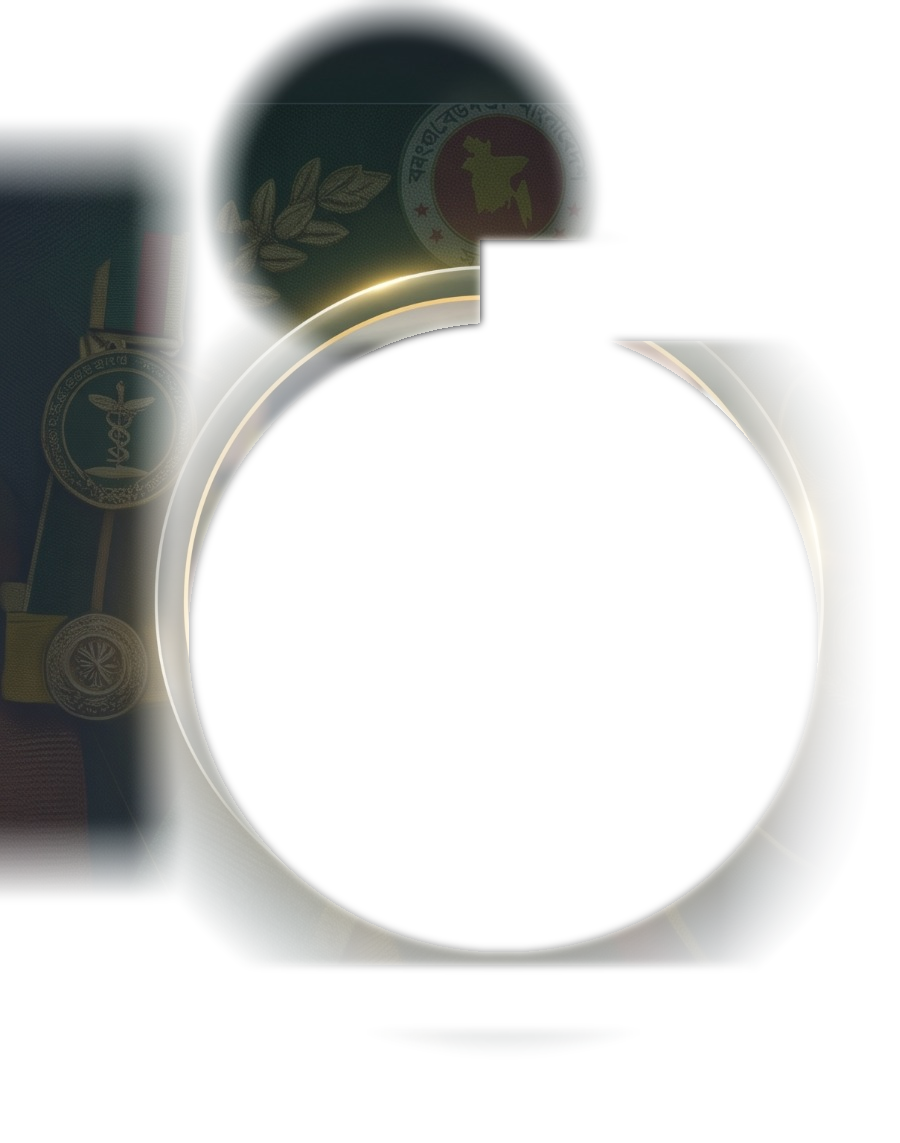
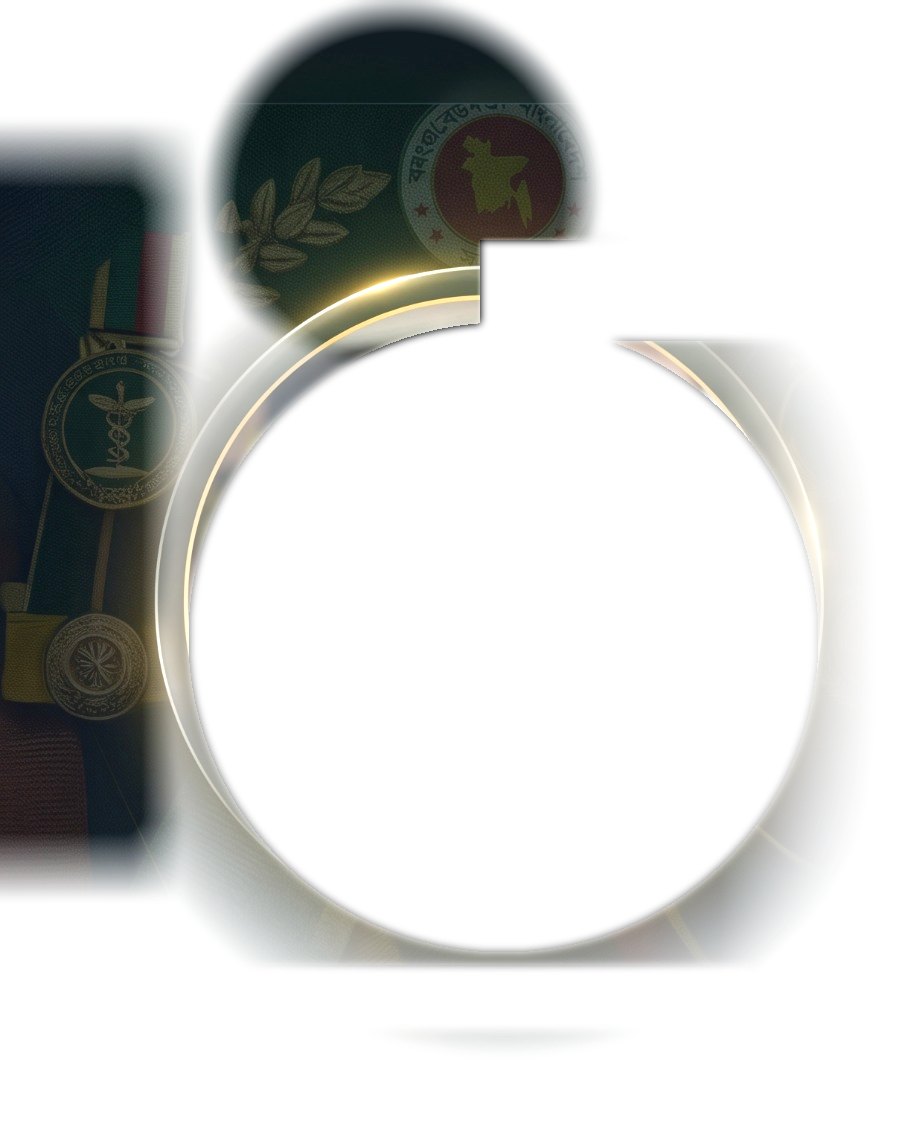
fix(hero): restore sovereign watermark and master glassmorphic leadership card with gold glow border

Changed region(s): [[0.2178, 0.0, 0.6533, 0.3675], [0.0, 0.1225, 0.2178, 0.7655], [0.2178, 0.3981, 0.2489, 0.4899]]

diff --git a/Brigadier-General-AKM-Nasir-Uddin/index.html b/Brigadier-General-AKM-Nasir-Uddin/index.html
@@ -185,115 +185,153 @@
 
   <main>
 
-    <!-- ==================== HERO SECTION (USER EXACT CODE) ==================== -->
-    <section class="hero-bg text-white min-w-full flex items-center justify-center px-6 md:px-16 py-12 relative overflow-hidden border-b border-emerald-900/40">
-        <div class="max-w-7xl w-full grid grid-cols-1 lg:grid-cols-12 gap-12 items-center">
-            
-            <!-- Left Column: Portrait & Badge -->
-            <div class="lg:col-span-5 flex flex-col items-center justify-center relative">
-                <!-- Ambient Glow behind portrait -->
-                <div class="absolute w-72 h-72 bg-[#d4af37]/10 rounded-full blur-3xl -z-10"></div>
-                
-                <!-- CEO Tag on Top of Image -->
-                <div class="mb-4 inline-flex items-center space-x-2 px-4 py-1.5 rounded-full bg-black/40 border border-[#d4af37]/40 text-xs text-emerald-100 shadow-lg">
-                    <span class="w-2 h-2 rounded-full bg-[#d4af37] animate-pulse"></span>
-                    <span>CEO • Pro-Active Hospital</span>
+    <!-- ==================== ULTRA-PREMIUM HERO SECTION WITH SOVEREIGN WATERMARK ==================== -->
+    <section class="relative bg-gradient-to-br from-[#041411] via-[#08211B] to-[#03100D] text-white py-14 sm:py-20 overflow-hidden shadow-2xl border-b border-amber-400/20">
+
+      <!-- Authentic Heraldic Sovereign Watermark (Bangladesh National Seal, Medal Ribbons & Military Crests) -->
+      <div class="absolute top-0 left-0 bottom-0 w-full sm:w-[60%] lg:w-[48%] pointer-events-none select-none z-0 overflow-hidden">
+        <img src="assets/images/hero-insignia-watermark.png"
+             alt="Bangladesh National Seal and Armed Forces Honors Watermark"
+             class="w-full h-full object-cover sm:object-contain object-left-top opacity-85 mix-blend-screen pointer-events-none">
+      </div>
+
+      <!-- Tactical Military Geometric Lines & Ambient Grid -->
+      <svg class="absolute inset-0 w-full h-full pointer-events-none opacity-20 z-0" xmlns="http://www.w3.org/2000/svg">
+        <defs>
+          <linearGradient id="tacticalGoldLine" x1="0%" y1="0%" x2="100%" y2="100%">
+            <stop offset="0%" stop-color="#C8A25D" stop-opacity="0.35" />
+            <stop offset="50%" stop-color="#E5C178" stop-opacity="0.7" />
+            <stop offset="100%" stop-color="#C8A25D" stop-opacity="0.15" />
+          </linearGradient>
+        </defs>
+        <line x1="0" y1="25%" x2="100%" y2="75%" stroke="url(#tacticalGoldLine)" stroke-width="0.75" />
+        <line x1="10%" y1="0" x2="90%" y2="100%" stroke="url(#tacticalGoldLine)" stroke-width="0.75" />
+        <line x1="0" y1="85%" x2="65%" y2="0" stroke="url(#tacticalGoldLine)" stroke-width="0.5" stroke-dasharray="4,6" />
+        <circle cx="28%" cy="50%" r="300" stroke="url(#tacticalGoldLine)" stroke-width="0.5" fill="none" opacity="0.4" />
+      </svg>
+
+      <!-- Luxury Sovereign Ambient Glow Lighting -->
+      <div class="absolute -top-40 -right-40 w-[550px] h-[550px] bg-emerald-500/10 rounded-full blur-[140px] pointer-events-none"></div>
+      <div class="absolute -bottom-40 -left-40 w-[550px] h-[550px] bg-amber-400/10 rounded-full blur-[140px] pointer-events-none"></div>
+
+      <div class="max-w-7xl mx-auto px-4 sm:px-6 lg:px-8 relative z-10">
+        <div class="grid grid-cols-1 lg:grid-cols-12 gap-10 lg:gap-14 items-center">
+
+          <!-- Left Column: Double-Concentric Gold Ring Portrait & Overlapping CEO Pill -->
+          <div class="lg:col-span-5 flex flex-col items-center justify-center relative">
+            <div class="relative my-2 flex flex-col items-center">
+
+              <!-- Outer Concentric Gold Ring Frame with Radiant Glow -->
+              <div class="relative p-2.5 sm:p-3.5 rounded-full border-[1.5px] border-[#C8A25D] shadow-[0_0_35px_rgba(200,162,93,0.3)] flex items-center justify-center bg-black/20 backdrop-blur-xs">
+
+                <!-- Inner Gold Ring with High-Resolution Portrait -->
+                <div class="w-64 h-64 sm:w-76 sm:h-76 md:w-84 md:h-84 lg:w-92 lg:h-92 rounded-full border-2 border-[#C8A25D] overflow-hidden relative shadow-inner">
+                  <img src="assets/images/Gemini_Generated_Image_revc7hrevc7hrevc.jpg"
+                       alt="Brigadier General (Dr.) AKM Nasir Uddin (retd.)"
+                       id="heroDoctorImage"
+                       class="w-full h-full object-cover object-[center_12%] rounded-full transition-transform duration-700 hover:scale-103">
                 </div>
 
-                <!-- Circular Portrait with Golden Ring -->
-                <div class="relative p-2 rounded-full bg-gradient-to-b from-[#d4af37] via-[#997925] to-[#47340b] shadow-2xl">
-                    <div class="w-64 h-64 md:w-80 md:h-80 rounded-full overflow-hidden bg-emerald-950 border-4 border-[#0b1e17]">
-                        <img src="assets/images/Gemini_Generated_Image_revc7hrevc7hrevc.jpg" 
-                             alt="Brigadier General (Dr.) AKM Nasir Uddin" 
-                             id="heroDoctorImage"
-                             class="w-full h-full object-cover object-[center_12%] scale-105 hover:scale-100 transition duration-500">
-                    </div>
+                <!-- Top-Right Live Executive Pill (Overlapping concentric rings at ~1 o'clock) -->
+                <div class="absolute top-2 right-2 sm:top-3 sm:right-3 z-20 bg-[#F0F2EB] text-[#1E302A] px-4 py-1.5 rounded-full shadow-xl border border-slate-200/80 flex items-center gap-2 whitespace-nowrap">
+                  <span class="w-2.5 h-2.5 rounded-full bg-[#B8964E] flex-shrink-0 animate-pulse"></span>
+                  <span class="text-xs font-semibold tracking-tight text-[#1E302A]">CEO • Pro-Active Hospital</span>
                 </div>
 
-                <!-- Sub-badge under image -->
-                <div class="mt-5 text-center">
-                    <span class="text-xs uppercase tracking-widest text-[#d4af37] font-semibold" data-lang="hero-photo-ribbon">★ Army Medical Corps Veteran ★</span>
-                </div>
-            </div>
+              </div>
 
-            <!-- Right Column: Titles, Bio & Details -->
-            <div class="lg:col-span-7 flex flex-col space-y-6">
-                
-                <!-- Top Badge -->
-                <div>
-                    <span class="inline-block px-4 py-1.5 rounded-full bg-[#132c22] gold-border text-xs tracking-wider text-[#d4af37] font-medium uppercase" data-lang="hero-army-badge">
-                        ● Bangladesh Army Medical Corps • Retired Brigadier General
-                    </span>
-                </div>
-
-                <!-- Sub-header Role -->
-                <p class="text-sm uppercase tracking-widest text-emerald-400 font-semibold" data-lang="hero-ceo-subtitle">
-                    Healthcare Statesman & Medical Administrator
-                </p>
-
-                <!-- Main Name Title -->
-                <h1 class="serif-font text-4xl md:text-5xl lg:text-6xl font-bold leading-tight text-white">
-                    <span data-lang="hero-title-prefix">Brigadier General (Dr.)</span> <br>
-                    <span class="gold-gradient-text">AKM Nasir Uddin</span> <span class="text-2xl md:text-3xl text-emerald-300 font-normal">(retd.)</span>
-                </h1>
-
-                <!-- Qualifications List -->
-                <div class="flex flex-wrap items-center gap-y-2 text-sm text-emerald-100/90 font-medium">
-                    <span class="hover:text-[#d4af37] transition">MBBS (Rajshahi Univ)</span> 
-                    <span class="mx-3 text-[#d4af37]">•</span>
-                    <span class="hover:text-[#d4af37] transition">MPhil (BUP)</span> 
-                    <span class="mx-3 text-[#d4af37]">•</span>
-                    <span class="hover:text-[#d4af37] transition">MPH (DU)</span> 
-                    <span class="mx-3 text-[#d4af37]">•</span>
-                    <span class="hover:text-[#d4af37] transition">Senior Hospital Administrator</span>
-                </div>
-
-                <!-- Executive Leadership Card -->
-                <div class="glass-card gold-border rounded-xl p-6 shadow-xl mt-2">
-                    <div class="flex items-center space-x-2 text-xs font-bold uppercase tracking-wider text-[#d4af37] mb-2">
-                        <span>💼</span>
-                        <span data-lang="hero-cur-post-title">Current Executive Leadership:</span>
-                    </div>
-                    <h2 class="text-lg md:text-xl font-semibold text-white mb-4" data-lang="hero-cur-post-val">
-                        Chief Executive Officer (CEO) — Pro-Active Medical College & Hospital Ltd
-                    </h2>
-                    
-                    <div class="grid grid-cols-1 md:grid-cols-2 gap-3 text-xs md:text-sm text-emerald-100/80 border-t border-emerald-900/50 pt-4">
-                        <div class="flex items-center space-x-2">
-                            <span class="text-[#d4af37]">✓</span>
-                            <span>Former Director, DMCH (Dhaka Medical)</span>
-                        </div>
-                        <div class="flex items-center space-x-2">
-                            <span class="text-[#d4af37]">✓</span>
-                            <span>Former Director, DNCC COVID Hospital</span>
-                        </div>
-                        <div class="flex items-center space-x-2">
-                            <span class="text-[#d4af37]">✓</span>
-                            <span>Former Commandant, AFMI</span>
-                        </div>
-                        <div class="flex items-center space-x-2">
-                            <span class="text-[#d4af37]">✓</span>
-                            <span>Kuwait Armed Forces Veteran</span>
-                        </div>
-                    </div>
-                </div>
-
-                <!-- Action CTA Buttons -->
-                <div class="flex flex-wrap items-center gap-4 pt-4">
-                    <a href="#contact" class="px-7 py-3.5 rounded-full bg-gradient-to-r from-[#d4af37] to-[#aa820a] text-black font-bold text-sm tracking-wide shadow-lg hover:brightness-110 transition text-center" data-lang="btn-hero-consult">
-                        REQUEST STRATEGIC ADVISORY
-                    </a>
-                    <a href="#experience" class="px-6 py-3.5 rounded-full glass-card gold-border text-white font-medium text-sm hover:bg-emerald-950/50 transition text-center" data-lang="btn-hero-timeline">
-                        17 Career Appointments
-                    </a>
-                    <a href="javascript:void(0)" onclick="openExecutiveBriefModal()" class="px-6 py-3.5 rounded-full glass-card gold-border text-white font-medium text-sm hover:bg-emerald-950/50 transition text-center" data-lang="btn-hero-cv">
-                        Executive Profile Brief
-                    </a>
-                </div>
+              <!-- Bottom Dignified Ribbon Label: ★ ARMY MEDICAL CORPS VETERAN ★ -->
+              <div class="mt-4 sm:mt-5 text-center select-none">
+                <span class="text-xs sm:text-sm font-serif font-bold tracking-[0.22em] text-[#C8A25D] uppercase flex items-center justify-center gap-2.5" style="font-family: 'Playfair Display', Georgia, serif;">
+                  <span class="text-xs sm:text-sm text-[#C8A25D]">★</span>
+                  <span data-lang="hero-photo-ribbon">ARMY MEDICAL CORPS VETERAN</span>
+                  <span class="text-xs sm:text-sm text-[#C8A25D]">★</span>
+                </span>
+              </div>
 
             </div>
+          </div>
+
+          <!-- Right Column: Sovereign Statesman Brief & Editorial Typography -->
+          <div class="lg:col-span-7 space-y-4 text-center lg:text-left">
+
+            <!-- Military Honor Distinction Badge -->
+            <div class="inline-flex items-center gap-2 px-4 py-1.5 rounded-full bg-[#061815]/90 backdrop-blur-md border border-[#C8A25D]/50 text-amber-200 text-xs font-bold tracking-wider uppercase shadow-md">
+              <span class="text-sm">🇧🇩</span>
+              <span data-lang="hero-army-badge">BANGLADESH ARMY MEDICAL CORPS • RETIRED BRIGADIER GENERAL</span>
+            </div>
+
+            <!-- Grand Editorial Name & Scholarly Badges -->
+            <div class="space-y-1.5">
+              <span class="text-xs sm:text-sm font-bold uppercase tracking-[0.22em] text-[#E5C178] block" data-lang="hero-ceo-subtitle">
+                HEALTHCARE STATESMAN & MEDICAL ADMINISTRATOR
+              </span>
+
+              <h1 class="text-3xl sm:text-4xl md:text-5xl lg:text-[52px] xl:text-6xl font-bold text-[#FFF8EE] tracking-tight leading-[1.12]" style="font-family: 'Playfair Display', Georgia, serif;">
+                <span data-lang="hero-title-prefix">Brigadier General (Dr.)</span><br>
+                <span class="gold-gradient-text">AKM Nasir Uddin</span>
+                <span class="text-xl sm:text-2xl md:text-3xl font-light text-[#E5C178] font-sans ml-2">(retd.)</span>
+              </h1>
+
+              <!-- Clean Qualifications Row with Bullet Dividers -->
+              <div class="flex flex-wrap items-center justify-center lg:justify-start gap-x-3 gap-y-1.5 text-xs sm:text-sm text-[#D8E2DC] font-medium pt-1">
+                <span class="flex items-center gap-1.5"><span class="w-1.5 h-1.5 rounded-full bg-amber-400"></span> MBBS (Rajshahi Univ)</span>
+                <span class="flex items-center gap-1.5"><span class="w-1.5 h-1.5 rounded-full bg-amber-400"></span> MPhil (BUP)</span>
+                <span class="flex items-center gap-1.5"><span class="w-1.5 h-1.5 rounded-full bg-amber-400"></span> MPH (DU)</span>
+                <span class="flex items-center gap-1.5"><span class="w-1.5 h-1.5 rounded-full bg-amber-400"></span> Senior Hospital Administrator</span>
+              </div>
+            </div>
+
+            <!-- Current Executive Leadership Card (Master Glassmorphic with Gold Border) -->
+            <div class="rounded-2xl bg-[#071917]/95 backdrop-blur-md border border-[#D4AF37]/50 p-5 sm:p-6 text-left shadow-[0_12px_36px_-10px_rgba(0,0,0,0.8),0_0_20px_rgba(212,175,55,0.15),inset_0_1px_0_rgba(255,230,150,0.25)] space-y-3 relative overflow-hidden">
+              <div class="flex items-center gap-2 text-[#DFB15B] font-bold text-xs uppercase tracking-wider">
+                <i class="fa-solid fa-briefcase text-xs text-[#DFB15B]"></i>
+                <span data-lang="hero-cur-post-title">CURRENT EXECUTIVE LEADERSHIP:</span>
+              </div>
+
+              <h2 class="text-white font-bold text-base sm:text-lg lg:text-xl leading-snug tracking-tight" data-lang="hero-cur-post-val">
+                Chief Executive Officer (CEO) — Pro-Active Medical College & Hospital Ltd
+              </h2>
+
+              <div class="border-t border-[#D4AF37]/25 pt-3.5 grid grid-cols-1 sm:grid-cols-2 gap-2.5 text-xs sm:text-[13px] text-slate-100 font-medium">
+                <div class="flex items-center space-x-2">
+                  <i class="fa-solid fa-check text-[#DFB15B] text-xs flex-shrink-0"></i>
+                  <span>Former Director, DMCH (Dhaka Medical)</span>
+                </div>
+                <div class="flex items-center space-x-2">
+                  <i class="fa-solid fa-check text-[#DFB15B] text-xs flex-shrink-0"></i>
+                  <span>Former Director, DNCC COVID Hospital</span>
+                </div>
+                <div class="flex items-center space-x-2">
+                  <i class="fa-solid fa-check text-[#DFB15B] text-xs flex-shrink-0"></i>
+                  <span>Former Commandant, AFMI</span>
+                </div>
+                <div class="flex items-center space-x-2">
+                  <i class="fa-solid fa-check text-[#DFB15B] text-xs flex-shrink-0"></i>
+                  <span>Kuwait Armed Forces Veteran</span>
+                </div>
+              </div>
+            </div>
+
+            <!-- Action Suite (Radiant Solid Gold Gradient CTA + Rounded-Full Pills) -->
+            <div class="flex flex-wrap items-center justify-center lg:justify-start gap-3 pt-2">
+              <a href="#contact" class="px-6 py-3 rounded-full bg-gradient-to-r from-[#DFB15B] via-[#F3D389] to-[#C8963E] hover:from-[#F3D389] hover:to-[#DFB15B] text-slate-950 font-black text-xs tracking-wider uppercase shadow-[0_4px_20px_rgba(223,177,91,0.4)] hover:shadow-[0_6px_25px_rgba(223,177,91,0.6)] transition-all duration-300 transform hover:-translate-y-0.5 whitespace-nowrap">
+                <span data-lang="btn-hero-consult">REQUEST STRATEGIC ADVISORY</span>
+              </a>
+
+              <a href="#experience" class="px-5 py-3 rounded-full bg-black/40 hover:bg-black/60 text-white font-bold text-xs tracking-wide border border-amber-400/50 backdrop-blur-md transition-all whitespace-nowrap hover:border-amber-300">
+                <span data-lang="btn-hero-timeline">17 Career Appointments</span>
+              </a>
+
+              <button onclick="openExecutiveBriefModal()" class="px-5 py-3 rounded-full bg-black/40 hover:bg-black/60 text-white font-bold text-xs tracking-wide border border-white/30 backdrop-blur-md transition-all whitespace-nowrap hover:border-white/60 cursor-pointer">
+                <span data-lang="btn-hero-cv">Executive Profile Brief</span>
+              </button>
+            </div>
+
+          </div>
 
         </div>
+      </div>
     </section>
 
     <!-- ==================== EXECUTIVE METRICS STRIP ==================== -->
